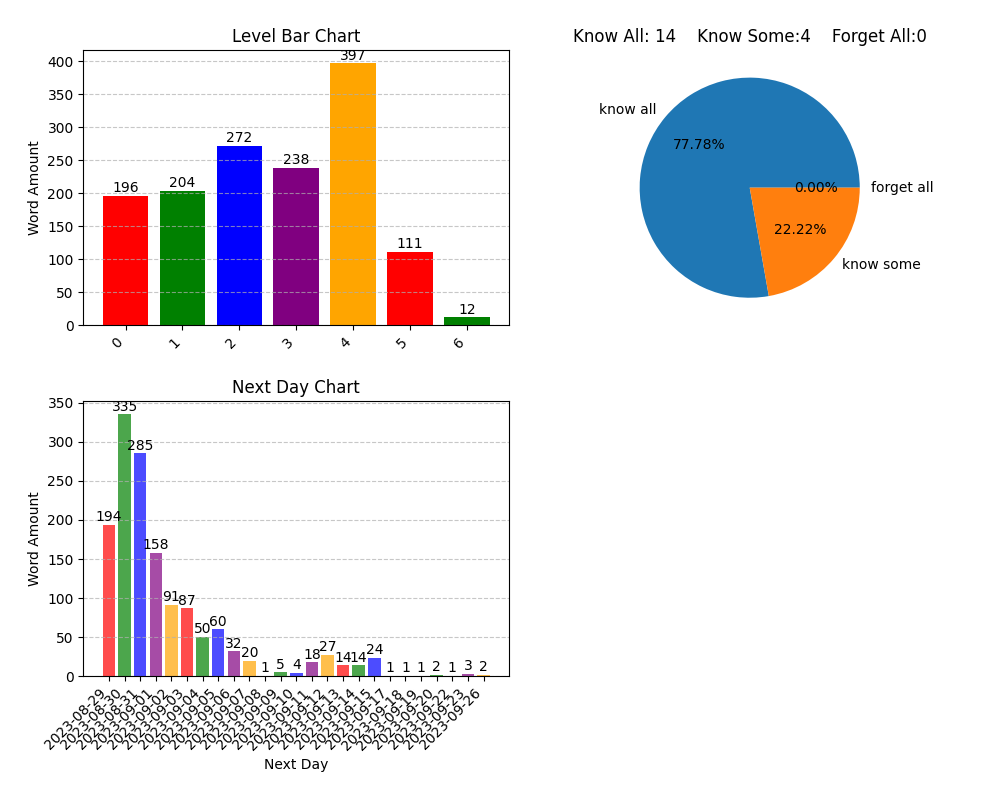
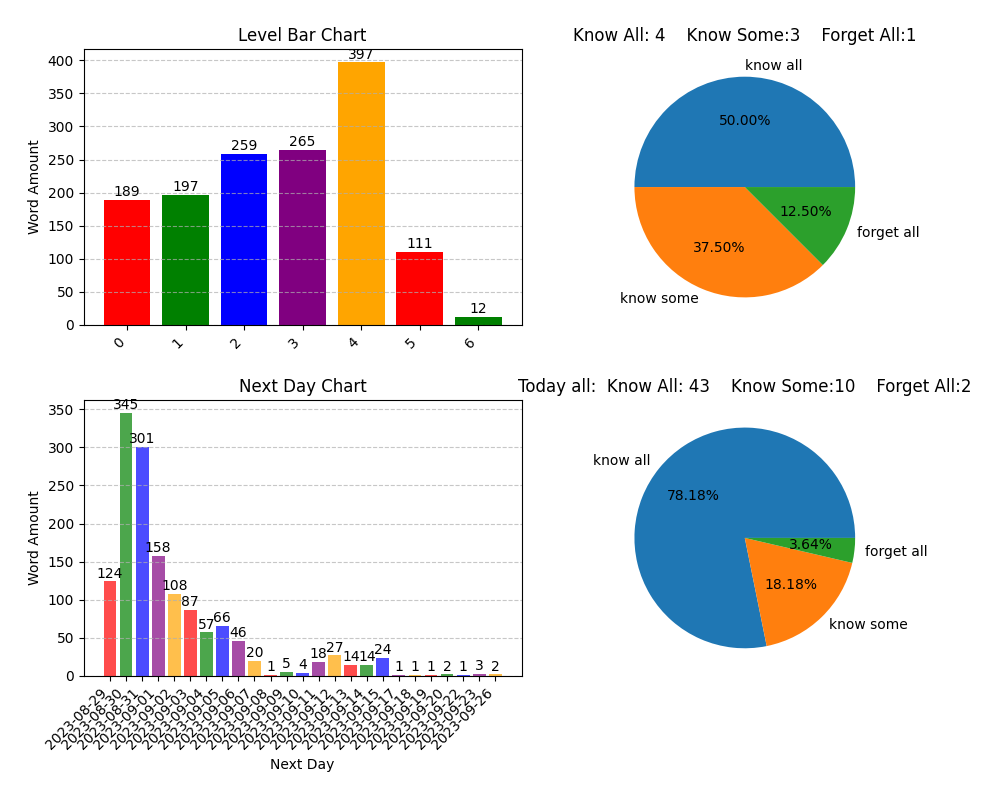
增加了今天单词的图

diff --git a/notion_patch_all_anki.py b/notion_patch_all_anki.py
@@ -390,7 +390,7 @@ class Update_anki:
                     next_str = self.next_day_on_level(next_level)
                 elif ForgetAll:
                     with open("word_today.txt", "a", encoding="utf-8") as file:
-                        file.write(word + " |ForgetAll""\n")
+                        file.write(word + " |ForgetAll\n")
                     self.count_forget_all += 1
                     self.forgetall_list.append(dict)
                     next_level = '0'
@@ -433,7 +433,7 @@ class Update_anki:
                     }
                 }
                 # must change
-                # self.patch_one_data(data,page_id)
+                self.patch_one_data(data,page_id)
 
             # 如果没选
             else:
@@ -528,10 +528,10 @@ class Update_anki:
                       + str(values_next[num]) + " 个，超过300个")
                 need_to_release = True
         want_to_release = ""
-        if need_to_release:
-            want_to_release = input("出现压力过大的日期，是否要分配压力，是打 1 ，不是可以直接 enter")
-        if want_to_release == "1":
-            self.release_the_tension(tension_date)
+        # if need_to_release:
+        #     want_to_release = input("出现压力过大的日期，是否要分配压力，是打 1 ，不是可以直接 enter")
+        # if want_to_release == "1":
+        #     self.release_the_tension(tension_date)
 
     def draw_pic(self):
         # # 显示图形
@@ -594,29 +594,36 @@ class Update_anki:
                                                                            self.count_forget_all)
             axs[0, 1].set_title(title)
 
-        today_word_level_dict = {}
+        today_word_level_dict = {"KnowAll":0,"KnowSome":0,"ForgetAll":0}
         with open("word_today.txt","r",encoding="utf-8") as file:
             today_word_levels = file.readlines()
         for today_word_level in today_word_levels:
             word_level = today_word_level.strip('\n')
             word_level = word_level.split('|')
             level = word_level[1]
-            if level not in today_word_level:
-                today_word_level_dict[level] = 0
-            else:
-                today_word_level_dict[level] += 1
+            # try:
+            #     today_word_level_dict[level] += 1
+            # except:
+            #     today_word_level_dict[level] = 0
+            today_word_level_dict[level] += 1
 
 
 
-        if self.count_forget_all == 0 and self.count_know_some == 0 and self.count_forget_all == 0:
+
+        try:
+            length = len(today_word_level_dict.keys())
+        except:
+            axs[1, 1].axis('off')
+        if len(today_word_level_dict.keys()) ==0:
             axs[1, 1].axis('off')
         else:
-            axs[1, 1].pie(x=[self.count_know_all, self.count_know_some, self.count_forget_all],
+            axs[1, 1].pie(x=[today_word_level_dict["KnowAll"], today_word_level_dict["KnowSome"],
+                             today_word_level_dict["ForgetAll"]],
                           labels=['know all', 'know some', 'forget all'],
                           autopct='%.2f%%')
             # plt.legend(patches, [f"{label}: {size}" for label, size in zip(labels, sizes)], loc="upper left")
-            title = "Today all:  Know All: {}    Know Some:{}    Forget All:{}".format(self.count_know_all, self.count_know_some,
-                                                                           self.count_forget_all)
+            title = "Today all:  Know All: {}    Know Some:{}    Forget All:{}".format(today_word_level_dict["KnowAll"], today_word_level_dict["KnowSome"],
+                                                                           today_word_level_dict["ForgetAll"])
             axs[1, 1].set_title(title)
 
         plt.tight_layout(pad=2.0)  # 增加子图间的纵向距离

diff --git a/Economist_anki.py b/Economist_anki.py
@@ -23,7 +23,7 @@ import pyautogui
 # import paddleocr
 # from PIL import Image
 import time
-import pywinauto.mouse
+# import pywinauto.mouse
 # import ebooklib
 # from ebooklib import epub
 # from urllib import parse
